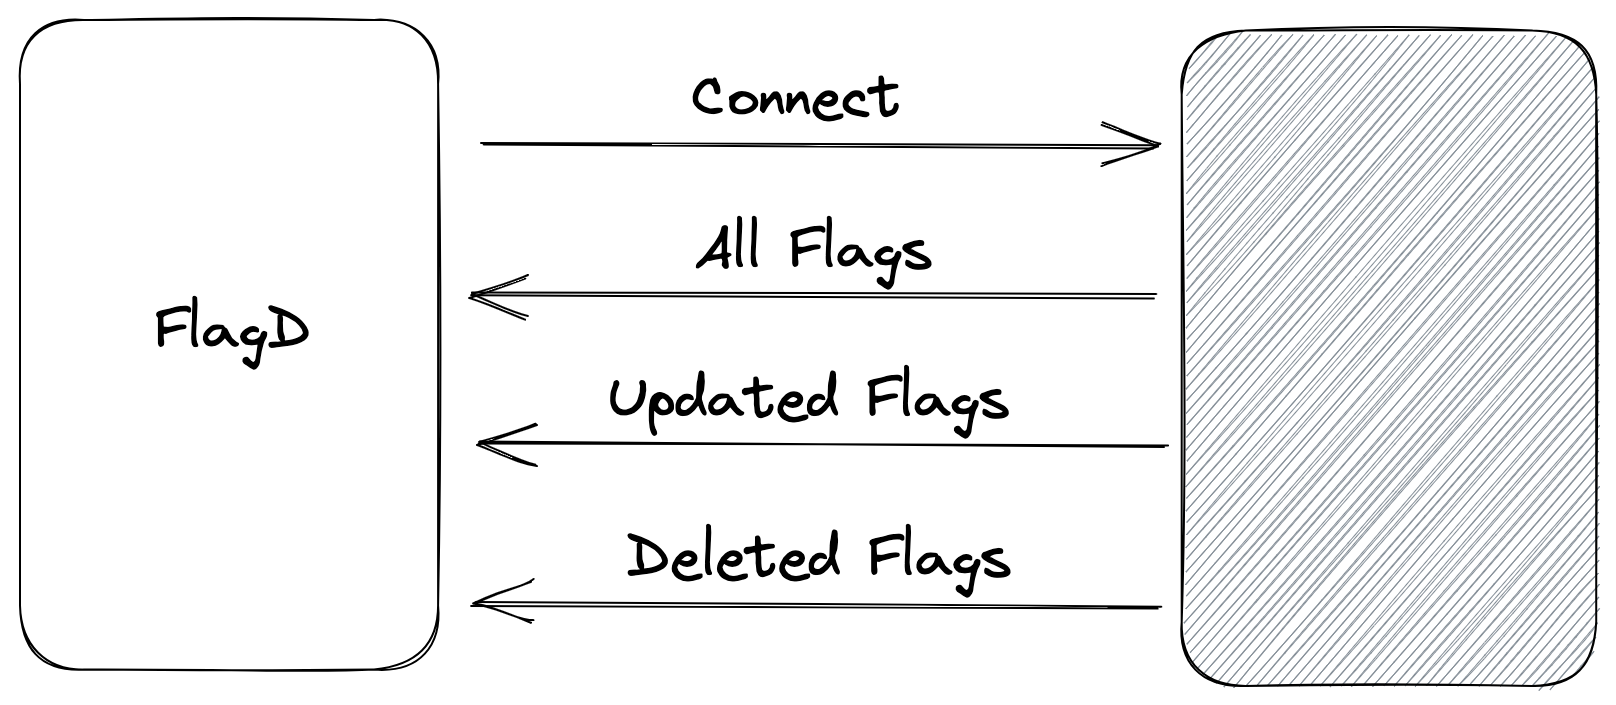
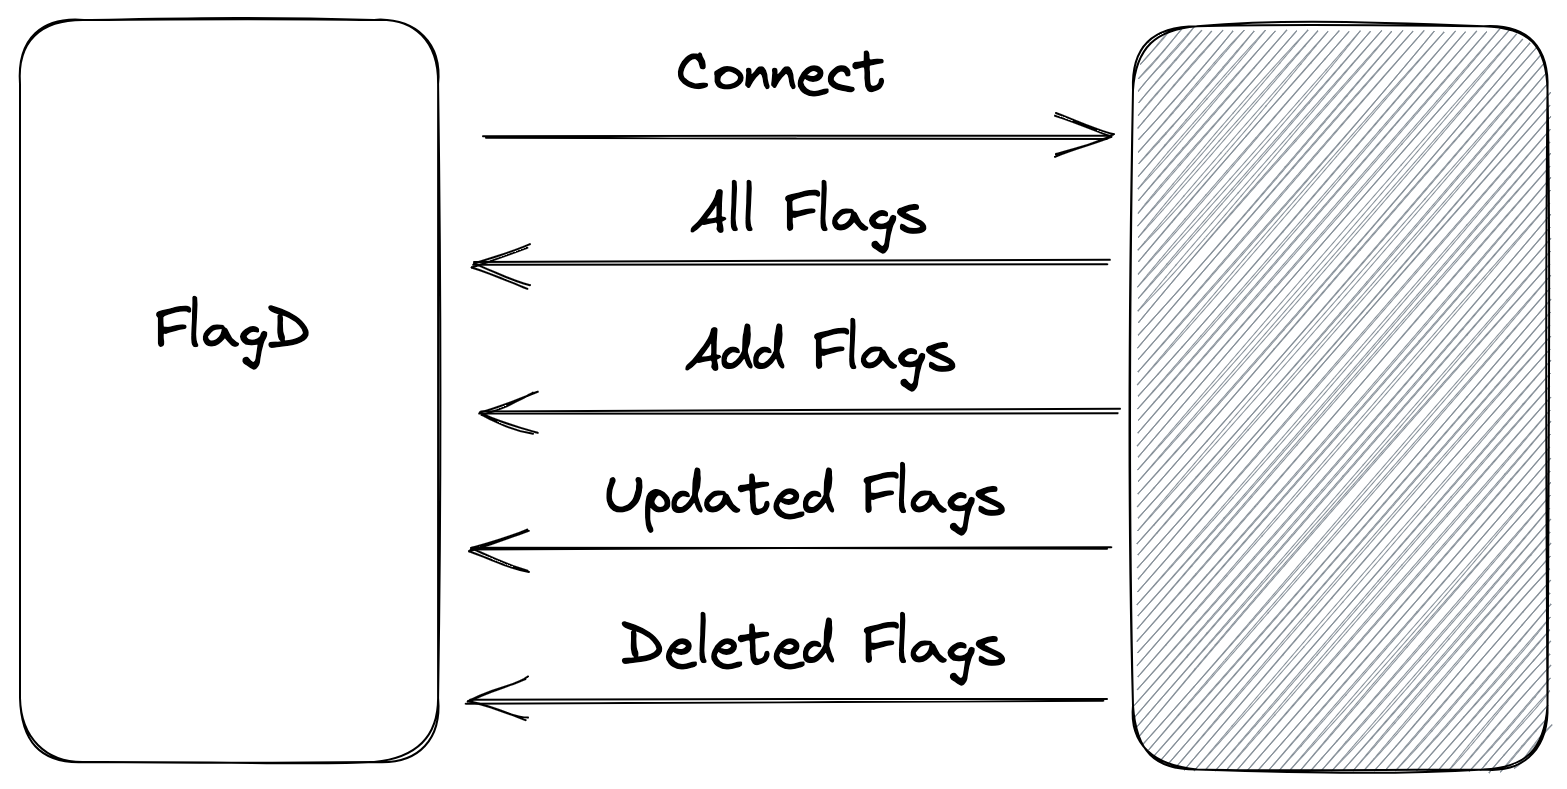
review changes

diff --git a/OFEP-flagd-grpc-sync.md b/OFEP-flagd-grpc-sync.md
@@ -15,8 +15,9 @@ The gRPC schema will be defined by flagd and supporting flag management system(s
 
 <img src="images/ofep-fd-grpc-1.png" width="300">
 
-Further, server push can be expanded to have `event types` such as flag updates, modifications and deletions, giving more
-performant connectivity between flagd and flag management system.
+Further, server push can be expanded to have `event types` such as flag additions, updates and deletions, giving more
+performant connectivity between flagd and flag management system. Performance improvements come from reduced payload
+size(single flag change vs all flags) and connection establishment overhead, which is missing with streaming.
 
 <img src="images/ofep-fd-grpc-2.png" width="300">
 
@@ -24,6 +25,14 @@ performant connectivity between flagd and flag management system.
 
 Following are the main tasks I am proposing for the implementation.
 
-- [x] POC for the implementation and OFEP approval
+- [x] POC implementation - https://github.com/open-feature/flagd/pull/297 
+- [ ] OFEP approval
 - [ ] Introduce basic grpc sync, with minimal configuration options
-- [ ] Introduce additional options, such as SSL certificates, token authentication on top of existing solution
+- [ ] Introduce additional options, such as TLS certificates, token authentication on top of existing solution
+
+#### SSL certificates and token authentication
+
+Consider the GRPC authentication example provided through official Go guide - [Link](https://github.com/grpc/grpc-go/tree/master/examples/features/authentication)
+
+With a similar approach, it is possible to establish TLS connections and enable token based authentication/authorization
+between flagd and flag management system.
